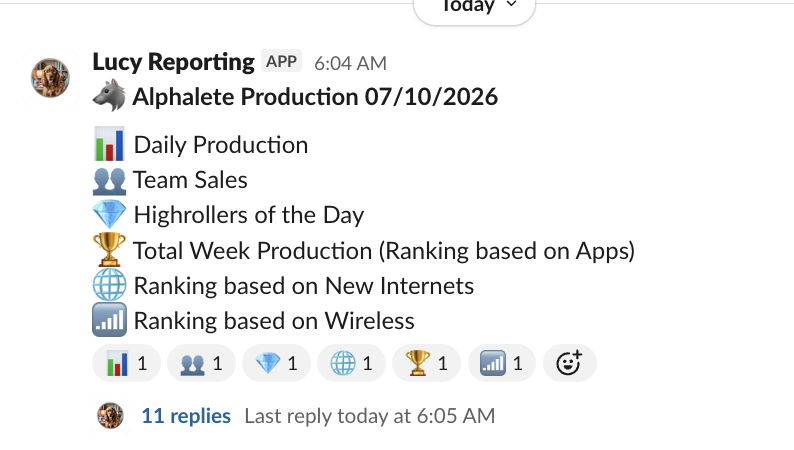
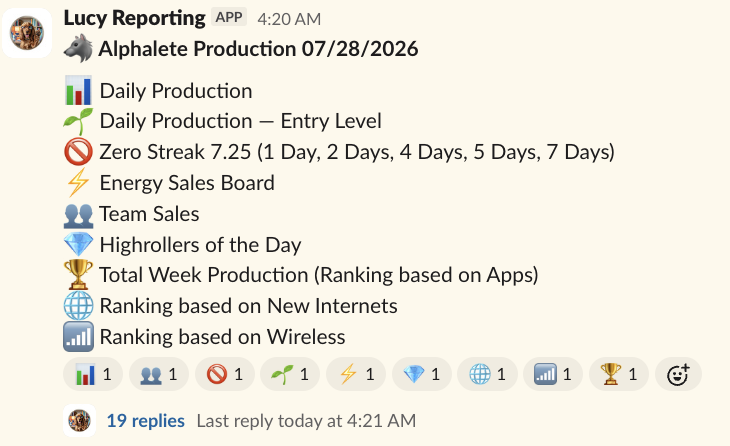
alphalete-production card: updated screenshot + simplified WHAT IT DOES
Metrics changed, so refresh the card screenshot; trim the WHAT IT DOES
copy to Megan's wording. (Megan review)

Changed region(s): [[0.0, 0.0, 0.9644, 0.991], [0.5425, 0.0, 0.663, 0.0583]]

diff --git a/automations/dashboard.py b/automations/dashboard.py
@@ -2949,8 +2949,7 @@ AUTOMATED_REPORTS = [
         "description": "Combines Jolie's two manual morning screenshot posts into ONE dated '🐺 Alphalete Production' thread in #alphalete-sales: Daily Production, an Entry Level (Wk 1–4) board, a Back-to-Back Zeros callout, an Energy-only sales board, a Team Sales board per team, Highrollers of the day, and 3 rankings (Apps / New Internets / Wireless).",
         "breakdown": (
             "WHAT IT DOES\n"
-            "Screenshots the Sales Board tab into clean PNGs — off a hidden, "
-            "auto-deleted copy tab, so the live sheet is never touched — and posts "
+            "Takes screenshots the Sales Board tab into clean PNGs and posts "
             "them as Lucy in one threaded post.\n\n"
             "IMAGES\n"
             "1. Daily Production\n"
